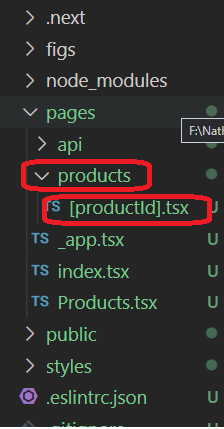
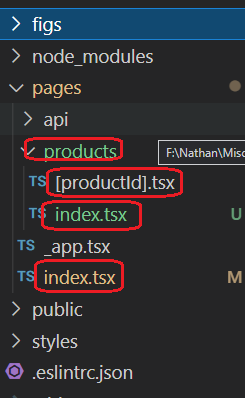
change directory tree structure

Changed region(s): [[0.0, 0.0, 1.0, 1.0], [0.0312, 0.75, 0.0938, 0.87], [0.0312, 0.21, 0.0938, 0.24]]

diff --git a/pages/index.tsx b/pages/index.tsx
@@ -1,11 +1,12 @@
 import type { NextPage } from 'next'
 import styles from '../styles/Home.module.css'
-import Products from './Products'
+import Products from './products'
 
 const Home: NextPage = () => {
   return (
     <div className={styles.container}>
-     <Products/>
+      <p>/products for products</p>
+      <p>/products/1 for product with id 1</p>
     </div>
   )
 }

diff --git a/README.md b/README.md
@@ -9,6 +9,8 @@ This is relevant when you want to navigate to e.g. detailed product but you dont
 
 <h4>directory structure</h4>
 
+<p>notice that index.tsx inside products directory implement Products.tsx (the name of Products.tsx is arbitrary)</p>
+
 ![tree structure](./figs/tree_structure.png)
 
 <h4>access details</h4>
